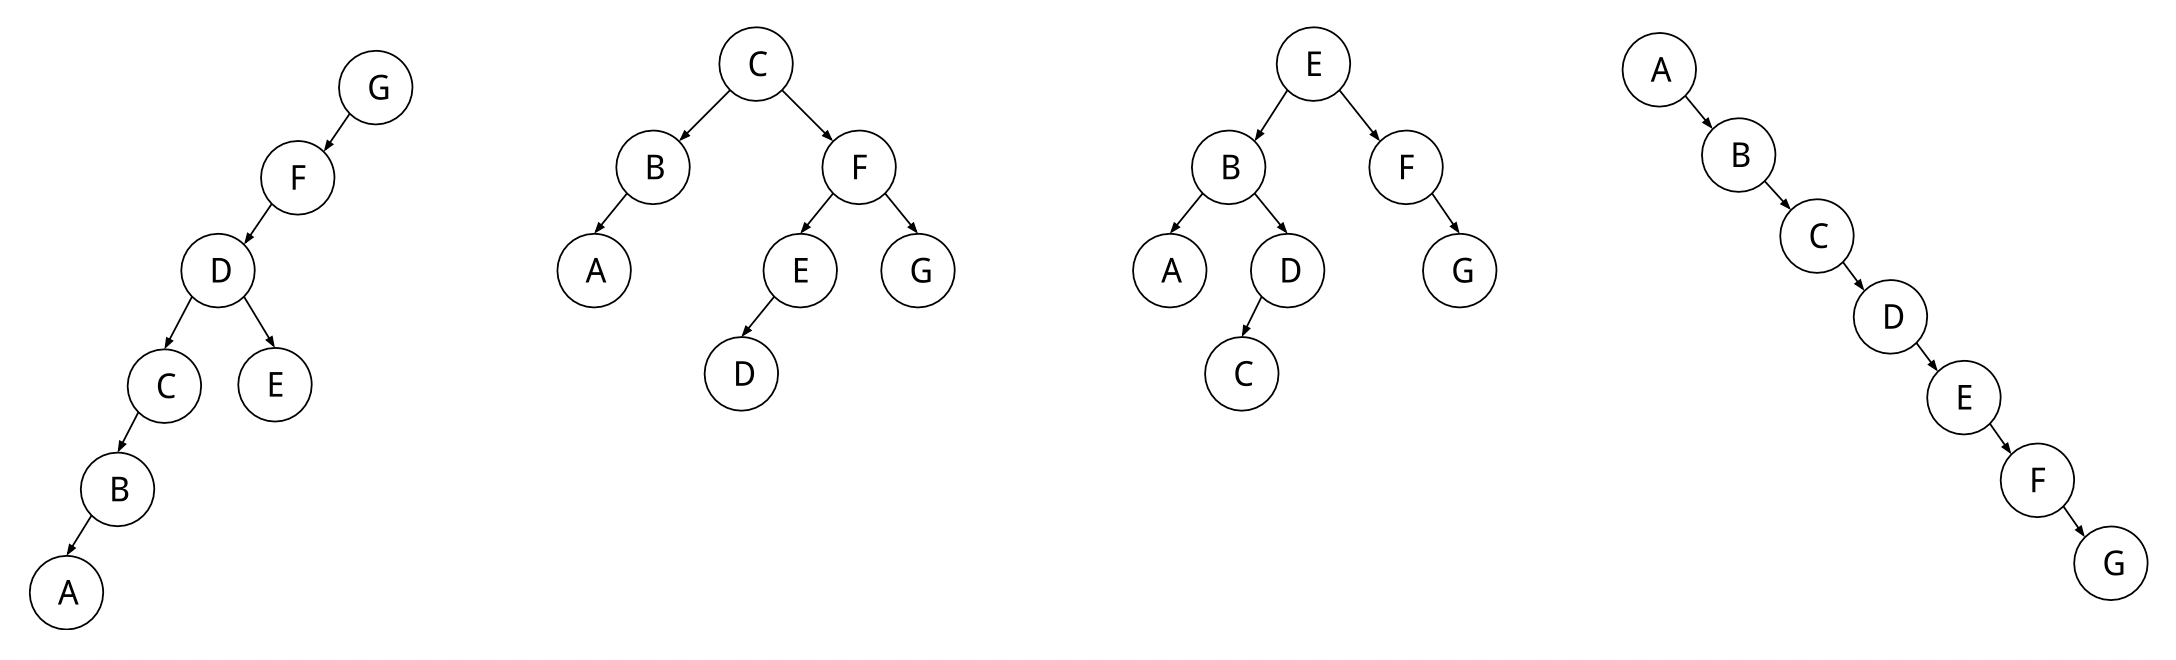
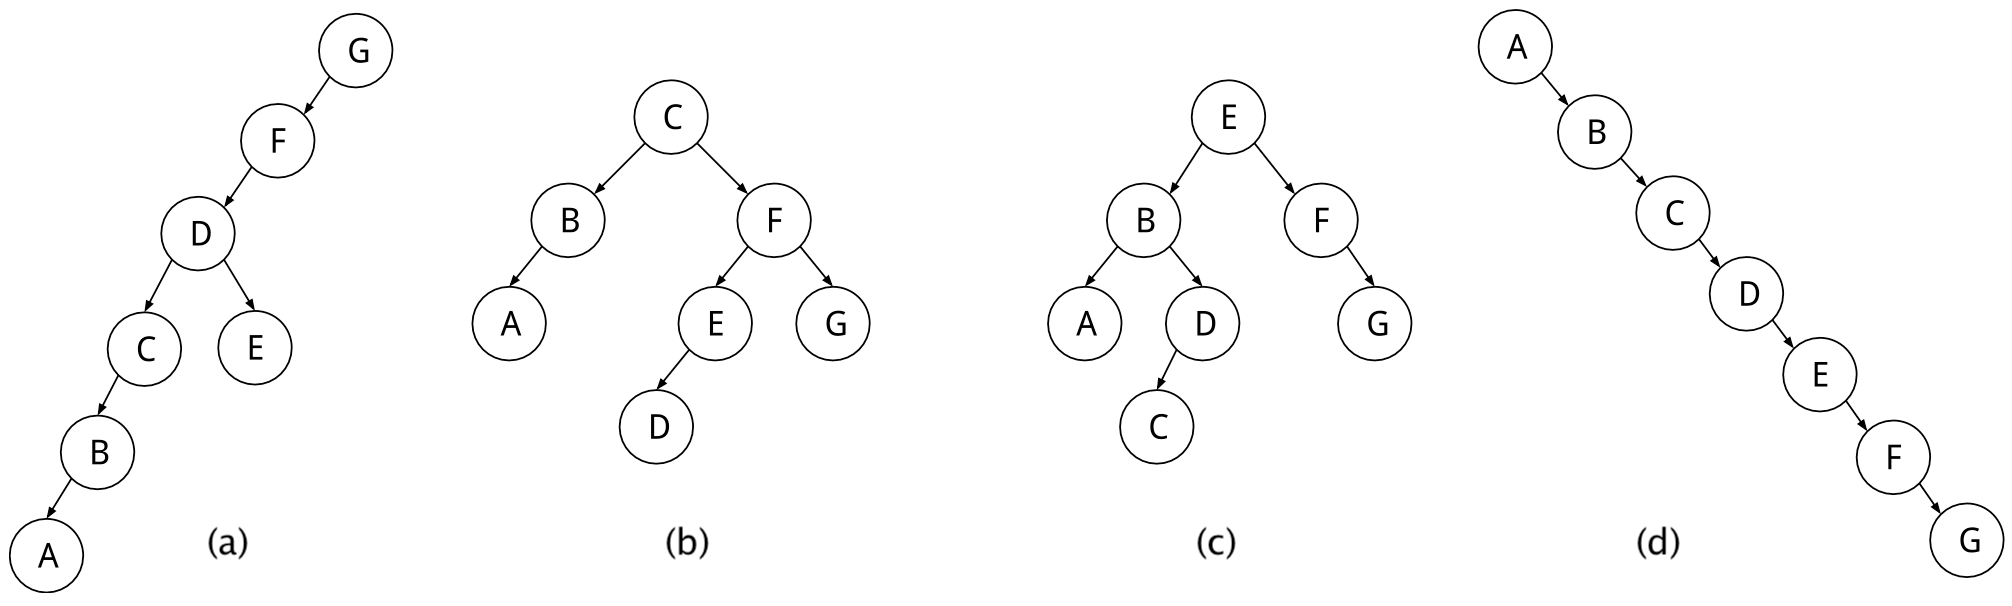
[ch 10] update figure sizes

diff --git a/src/markdown/10-search-trees/01-binary-search-trees.md b/src/markdown/10-search-trees/01-binary-search-trees.md
@@ -20,16 +20,15 @@ The only thing that differentiates a BST from a normal binary tree is this invar
 As explained in @sec:analysis-1:invariants,
 an invariant is a condition that the BST *always* must satisfy.
 
+![Four example BSTs, both representing the same set of values.](images/BST-ExampleVariants.png){width=100% #fig:BST-example}
+
 This means that the example tree from @sec:trees:binary-trees is not a BST, because it violates the invariant,
-but @fig:BST-example shows two correct BSTs.
-
-![Two example BSTs, both representing the same set of values.](images/BST-Example.png){#fig:BST-example}
-
-Note that both these trees represent the same set of values,
+but @fig:BST-example shows four correct BSTs.
+Note that all these trees represent the same set of values,
 which means that if we use them to implement a *set*,
 then they should be indistinguishable for the program that makes use of them.
-However, there is one important difference between the two trees:
-the left one is much more *balanced* than the right one,
+However, there is one important difference between the four trees:
+the middle ones are much more *balanced* than the other two,
 and this has consequences for the efficiency of the basic operations.
 
 ### Implementing BST sets and maps
@@ -227,12 +226,15 @@ The next question is, how do we find the largest value in a tree?
 This is easy, we just go as far to the right as possible -- then we will end up in the largest element.
 (And similar for the smallest value -- we go as far to the left as possible.)
 
+![
+    Deleting the root (C) from the tree in (a) results in either of the two trees in (b).
+](images/BST-ExampleDeleteRoot.png){width=100% #fig:ExampleDeletedRoot}
+
+
 ::: example
 #### Example: Deleting from a BST
 
-Suppose we want to delete the value X from the following tree:
-
-![](images/BST-Example.png)
+Suppose we want to delete the value C from @fig:ExampleDeletedRoot(a).
 
 - First we find the C node, and the node with the largest value in the left subtree, which is the B node.
 - We delete the B node, which means that we have to redirect the right child of its parent X to Y.
@@ -244,11 +246,8 @@ Alternatively, if we instead decide to replace with the smallest element in the 
 - We delete the D node, which means that we have delete the right child of its parent X.
 - Finally we replace the value in the C node with D.
 
-In the end we will get one of the following two BSTs:
-
-![](images/BST-ExampleDeleteRoot.png)
-
-Notice that both of these trees are different representations of exactly the same set!
+In the end we will get one of the two BSTs in @fig:ExampleDeletedRoot(b).
+Notice that both of these trees are different representations of exactly the same set.
 :::
 
 Now we are ready to formalise deletion into an algorithm.
@@ -330,8 +329,8 @@ The height in turn depends on the tree structure:
 
 -   If the tree is *balanced*, meaning that all leaves are approximately on the same level,
     then the height is logarithmic in the number of nodes, and then searching is $O(\log(n))$.
-    The left tree in @fig:BST-example is an example of a balanced tree.
--   But if the tree us *unbalanced*, for example as the extremely right-leaning tree in @fig:BST-example,
+    The middle trees in @fig:BST-example are examples of balanced trees.
+-   But if the tree us *unbalanced*, for example as the extremely left- and right-leaning trees in @fig:BST-example,
     then the height is the same as the number of nodes, and search becomes linear $O(n)$.
 
 If we add values to a BST in sorted order (reversely sorted), then we get an extremely unbalanced tree.

diff --git a/src/markdown/10-search-trees/03-AVL-trees.md b/src/markdown/10-search-trees/03-AVL-trees.md
@@ -30,7 +30,7 @@ $$ -1\leq\text{bf}(t)\leq 1 \text{ for all tree nodes } t $$
 When we draw AVL trees we usually write the balance factor beside each node.
 Here are two balanced AVL trees representing the same set {A,B,C,D,E,F,G}:
 
-![](images/AVL-Balanced.png)
+![](images/AVL-Balanced.png){width=60%}
 
 Now we have to ensure that we restore the balance whenever a tree node becomes unbalanced,
 and we do that by using *tree rotations*.
@@ -57,14 +57,14 @@ or any other ancestor all the way up to the root.
 For example, if we want to add H to the previous trees, then they will look like follows,
 where the balance factors that are changed are shown in red:
 
-![](images/AVL-Unbalanced.png)
+![](images/AVL-Unbalanced.png){width=60%}
 
 Notice that the left tree is still AVL balanced, so we do not have to do anything further.
 But in the right tree, the gradparent F have become unbalanced.
 The F node is *right-heavy*, and we can solve this imbalance by rotating it to the left.
 In this case it is enough with a *single* rotation:
 
-![](images/AVL-LeftRotate1.png)
+![](images/AVL-LeftRotate1.png){width=60%}
 
 #### Single rotations
 
@@ -72,14 +72,14 @@ The example above was when the unbalanced node had a *right-right imbalance*.
 This means that not only the node itself is right-heavy, but its child is too.
 When a node is right-right unbalanced, it has the general structure to the left:
 
-![](images/AVL-LeftRotate2.png)
+![](images/AVL-LeftRotate2.png){width=80%}
 
 And after a single left rotation, it will look like the structure on the right.
 As you can see, suddenly the imbalance disappears.
 
 But there is another possibility that can be solved in the same way, if the subtree $t_2$ is as high as $t_3$:
 
-![](images/AVL-LeftRotate3.png)
+![](images/AVL-LeftRotate3.png){width=80%}
 
 Before the rotation, the $x$ node had a balance factor of $+2$, but afterwards it has $-1$.
 This is not a perfect balanced tree, but it is AVL balanced.
@@ -90,7 +90,7 @@ There is a third right-heavy case --
 when the *right-left* grandchild ($t_2$) is higher than the *right-right* ($t_3$).
 If we perform a single rotation over X we do not win anything:
 
-![](images/AVL-WrongDoubleRotate.png)
+![](images/AVL-WrongDoubleRotate.png){width=80%}
 
 Now we transformed the right-left imbalance into a left-right imbalance, which is equally bad.
 
@@ -98,7 +98,7 @@ The solution is to perform a *double rotation*.
 That is, first we transform the right-left case into a right-right case, by a right rotation over Y.
 After this we can rotate left over X:
 
-![](images/AVL-DoubleRotate.png)
+![](images/AVL-DoubleRotate.png){width=100%}
 
 And now all nodes are AVL balanced!
 The mirrored situations, *left* imbalances, are of course solved in the mirrored way, by

diff --git a/src/markdown/10-search-trees/04-23-trees.md b/src/markdown/10-search-trees/04-23-trees.md
@@ -113,7 +113,7 @@ and then *promote* the middle value to the parent.
 Here is how it can look like when we insert $c$ into a leaf 3-node consisting of $a$ and $b$.
 The resulting leaf node becomes too big, so we split and promote the middle value:
 
-![](images/TwoThree-InsertSplit.png)
+![](images/TwoThree-InsertSplit.png){width=60%}
 
 Promoting a value means that we insert it into the parent node.
 If the parent is a 2-node, then we just change it to a 3-node and we are done.
@@ -121,7 +121,7 @@ But if the parent is a 3-node, we are back in the same situation as before:
 we get a 4-node that we need to split, and then we promote *its* middle value to its parent.
 Like this:
 
-![](images/TwoThree-InsertSplitMiddle.png)
+![](images/TwoThree-InsertSplitMiddle.png){width=80%}
 
 
 ::: dsvis
@@ -180,7 +180,7 @@ There are three main cases to consider:
 To solve case 2 we first try to "steal" a value from a sibling.
 This works if any sibling is a 3-node: then we can rotate over the parent that lies between the nodes, like this:
 
-![](images/TwoThree-DeleteSteal.png)
+![](images/TwoThree-DeleteSteal.png){width=80%}
 
 If neither sibling is a 3-node, we cannot steal anything.
 In this situation we can instead *merge* our empty node with a sibling and the parent that lies between.
@@ -188,7 +188,7 @@ This is the opposite of splitting.
 When we merge we create a new 3-node with the sibling value and the parent value.
 The parent value is therefore *demoted* to its child, and the rank of the parent node is decreased by one:
 
-![](images/TwoThree-DeleteMerge.png)
+![](images/TwoThree-DeleteMerge.png){width=80%}
 
 In this example we were lucky -- the parent was a 3-node so it will become a 2-node and we are done.
 However, if the parent had been a 2-node, then it would become a 1-node after merging,
@@ -227,7 +227,7 @@ Therefore, this kind of trees are called *red-black trees*.
 The key insight is that any 2-3-4 tree can be converted to a corresponding red-black tree.
 The conversion looks like this, for any 2-, 3- or 4-node:
 
-![](images/TwoThree-Redblack-vs-234.png)
+![](images/TwoThree-Redblack-vs-234.png){width=80%}
 
 All the special cases for insertion and deletion in a 2-3-4 tree can be translated into rules for the red-black tree.
 The advantage is that we do not need a complicated node structure,

diff --git a/src/markdown/10-search-trees/02-self-balancing-trees.md b/src/markdown/10-search-trees/02-self-balancing-trees.md
@@ -27,12 +27,14 @@ The reason for this is that it costs too much to maintain this invariant,
 for example, @fig:rebalanceBST shows that we might need to reorganise the tree completely after each insertion.
 
 <!-- OPENDSA: START -->
+
 ![An attempt to re-balance a BST after insertion can be expensive. (a) A
 BST with six nodes in the shape of a complete binary tree. (b) A node
 with value 1 is inserted into the BST of (a). To maintain both the
 complete binary tree shape and the BST property, a major reorganisation
 of the tree is required.
 ](images/BSTBal.png){width=60% #fig:rebalanceBST}
+
 <!-- OPENDSA: END -->
 
 Instead we need to a find weaker balance invariant, and there are lots of different possibilities.